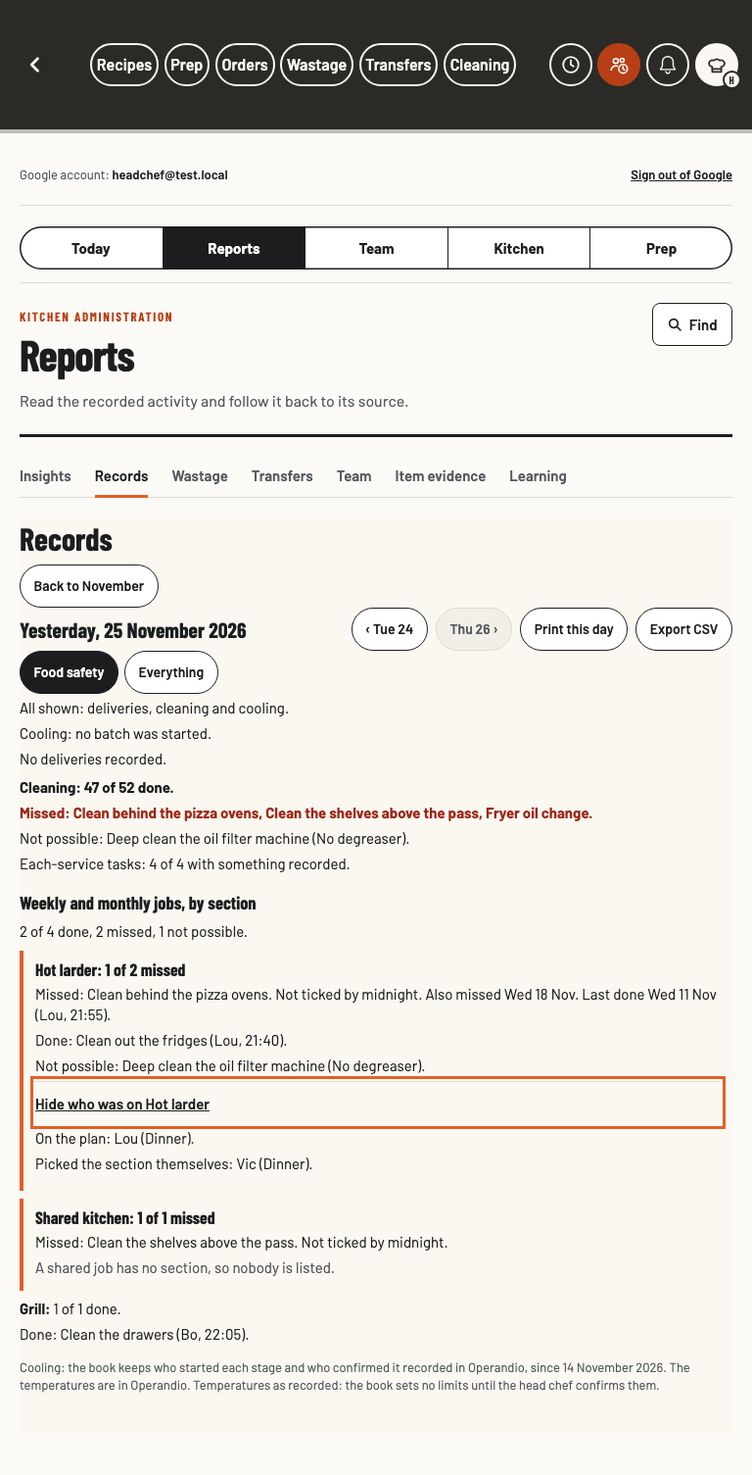
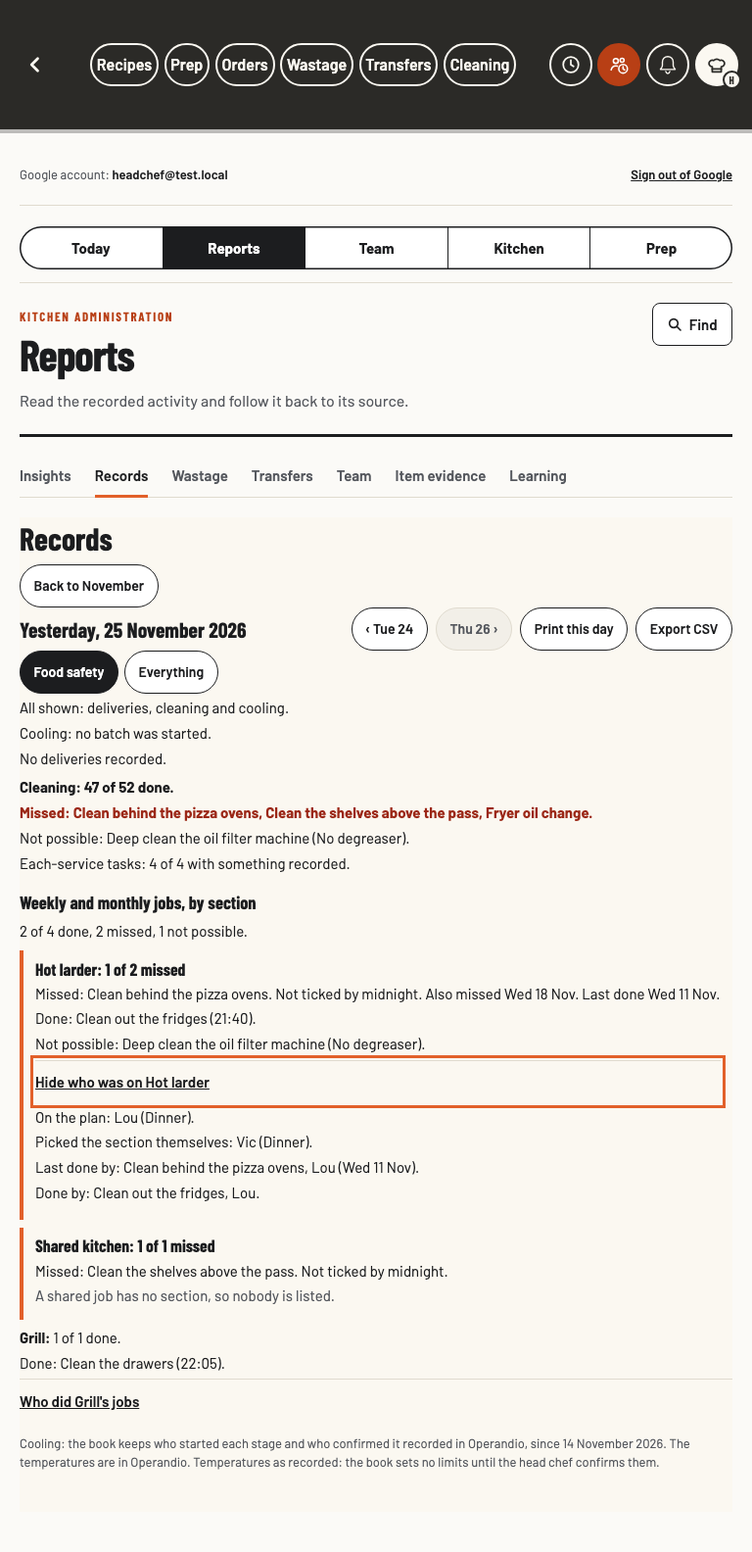
Records, cleaning by section: no person's name on the face of the page
The chosen design shows no name outside a fold. Who did a job now sits
behind the section's fold with who was on. The test words its dates the
way the page does (the tests run on today's date), and one night is built
with the nightly count's own code so the count and the page cannot drift.

diff --git a/tests/cleaning-results.test.js b/tests/cleaning-results.test.js
@@ -8,8 +8,9 @@ const L = require('./lib');
 const { R, ok } = L.results(), { txt } = L;
 const key = (...p) => ['kitchens', L.PIN, ...p].join('/');
 const DAY = 86400000, day = n => L.ymd(new Date(L.NOW - n * DAY));
-const DOW = ['Sun', 'Mon', 'Tue', 'Wed', 'Thu', 'Fri', 'Sat'], MON = ['Jan', 'Feb', 'Mar', 'Apr', 'May', 'Jun', 'Jul', 'Aug', 'Sep', 'Oct', 'Nov', 'Dec'];
-const short = d => { const t = new Date(d + 'T12:00:00Z'); return DOW[t.getUTCDay()] + ' ' + t.getUTCDate() + ' ' + MON[t.getUTCMonth()]; };
+// "Wed 18 Nov", worded in the page the way the book words it (the tests run on today's date, and the short name of a
+// month is the browser's: June, July and Sept are not three letters in Australian English)
+const shorts = (p, days) => p.evaluate(ds => { const o = {}, DOW = ['Sun', 'Mon', 'Tue', 'Wed', 'Thu', 'Fri', 'Sat']; ds.forEach(d => { const t = new Date(d + 'T12:00:00Z'); o[d] = DOW[t.getUTCDay()] + ' ' + t.getUTCDate() + ' ' + t.toLocaleDateString('en-AU', { month: 'short', timeZone: 'UTC' }); }); return o; }, days);
 const y = day(1), wk = day(8), wk2 = day(15), cutDay = day(22), ncDay = day(2), oldDay = day(3), nullDay = day(4);
 const whole = (o) => Object.assign({ cv: 2, due: 52, done: 47, miss: [], missN: 0, unable: [], unableN: 0, wait: [], waitN: 0, ev: 4, evRec: 4, r: [], rN: 0, rn: { due: 0, done: 0, miss: 0, unable: 0, wait: 0 } }, o);
 const pizza = (st, more) => Object.assign({ k: 'w1', t: 'Clean behind the pizza ovens', s: 'hot', sn: 'Hot side', st }, more || {});
@@ -42,6 +43,7 @@ const NAMES = /\b(Lou|Vic|Bo)\b/;
   const b = await L.start();
   for (const width of [390, 768, 1280]) {
     const p = await inbox(b, base(board()), width);
+    const SH = await shorts(p, [wk, wk2]), short = d => SH[d];
     const row = await p.evaluate(() => { const e = document.querySelector('.dsh-need-miss'); if (!e) return null; const btn = e.querySelector('button');
       return { tag: e.querySelector('.dsh-tag').textContent, title: e.querySelector('.dsh-need-title').textContent, detail: e.querySelector('.dsh-need-detail').textContent, btn: btn ? btn.textContent : '', cls: btn ? btn.className : '', h: btn ? Math.round(btn.getBoundingClientRect().height) : 0 }; });
     ok(!!row && row.tag === 'Missed' && row.title === '2 weekly or monthly cleaning jobs missed last night', width + ': the Inbox has one row for last night\'s missed weekly and monthly jobs (' + JSON.stringify(row && [row.tag, row.title]) + ')');
@@ -56,12 +58,13 @@ const NAMES = /\b(Lou|Vic|Bo)\b/;
     const landed = await p.evaluate(() => { const h = document.querySelector('#rec-clean-sec'), r = h && h.getBoundingClientRect(); return { tab: LK_PREP.state.atab, focus: document.activeElement && document.activeElement.id, top: r ? Math.round(r.top) : -1, vh: innerHeight, date: (document.querySelector('.rec-dt') || {}).textContent }; });
     ok(landed.tab === 'records' && /^Yesterday, /.test(landed.date || '') && landed.focus === 'rec-clean-sec' && landed.top >= 0 && landed.top < landed.vh - 100, width + ': the button opens that night in Records, with the jobs by section on screen and in focus (' + JSON.stringify(landed) + ')');
     const secs = await block(p);
-    ok(secs.length === 4 && /^Hot larder: 1 of 2 missed \| Missed: Clean behind the pizza ovens\. Not ticked by midnight\. /.test(secs[0]) && secs[0].indexOf('Also missed ' + short(wk) + '.') > 0 && secs[0].indexOf('Last done ' + short(wk2) + ' (Lou, 21:55).') > 0,
+    ok(secs.length === 4 && /^Hot larder: 1 of 2 missed \| Missed: Clean behind the pizza ovens\. Not ticked by midnight\. /.test(secs[0]) && secs[0].indexOf('Also missed ' + short(wk) + '.') > 0 && secs[0].indexOf('Last done ' + short(wk2) + '.') > 0,
       width + ': the section with a miss comes first, the miss first in it, with when the job was missed before and last done (' + secs[0] + ')');
     ok(secs[0].indexOf('Also missed ' + short(wk) + ' and') < 0, width + ': a day whose jobs were not kept one by one is not called a miss of that job');
-    ok(/\| Done: Clean out the fridges \(Lou, 21:40\)\. \| Who was on Hot larder$/.test(secs[0]), width + ': then the section\'s done job with who did it, and who was on behind a closed fold (' + secs[0] + ')');
+    ok(/\| Done: Clean out the fridges \(21:40\)\. \| Who was on Hot larder$/.test(secs[0]), width + ': then the section\'s done job with its time, and who was on behind a closed fold (' + secs[0] + ')');
+    ok(!NAMES.test(await p.evaluate(() => document.querySelector('.rec-clean').textContent)), width + ': with every fold closed, no person\'s name is on the page');
     ok(/^Shared kitchen: 1 of 1 missed \| Missed: Clean the shelves above the pass\..*A shared job has no section, so nobody is listed\.$/.test(secs[1]) && !/Who was on/.test(secs[1]), width + ': a shared job has a line and no names (' + secs[1] + ')');
-    ok(secs[2] === 'Grill: 1 of 1 done. | Done: Clean the drawers (Bo, 22:05).' && secs[3] === 'Old section: nothing due but a job that was not possible. | Not possible: Deep clean the oil filter machine (No degreaser).',
+    ok(secs[2] === 'Grill: 1 of 1 done. | Done: Clean the drawers (22:05). | Who did Grill\'s jobs' && secs[3] === 'Old section: nothing due but a job that was not possible. | Not possible: Deep clean the oil filter machine (No degreaser).',
       width + ': a section that finished says so, and a job that was not possible is apart, under the name its job was saved with when the section is gone (' + secs.slice(2).join(' // ') + ')');
     const view = await p.evaluate(() => { const v = document.querySelector('.rec-dayv'), miss = v.querySelector('.rec-miss'), fold = v.querySelector('.rec-who');
       return { red: [...v.querySelectorAll('.rec-adv')].map(e => e.textContent), failure: getComputedStyle(v.querySelector('.rec-adv')).color, edge: getComputedStyle(miss).borderLeftColor, ink: getComputedStyle(miss.querySelector('.rec-miss-h')).color,
@@ -71,8 +74,10 @@ const NAMES = /\b(Lou|Vic|Bo)\b/;
     ok(view.exp === 'false' && view.h >= 44 && view.wide, width + ': the fold is closed and 44 px tall; no sideways scroll (' + view.h + ')');
     await p.evaluate(() => document.querySelector('.rec-who').click()); await L.settle(p, 300);
     const who = await p.evaluate(() => ({ lines: [...document.querySelectorAll('.rec-who-list .rec-line')].map(e => e.textContent), exp: document.querySelector('.rec-who').getAttribute('aria-expanded'), label: document.querySelector('.rec-who').textContent, focus: document.activeElement && document.activeElement.className }));
-    ok(who.exp === 'true' && who.lines.join(' | ') === 'On the plan: Lou (Dinner). | Picked the section themselves: Vic (a shift no longer on the list).' && /rec-who/.test(who.focus || '') && who.label === 'Hide who was on Hot larder',
-      width + ': opened, it says who was on from the plan and from an own pick, each with its shift by name, never a raw id; focus stays on the fold (' + JSON.stringify(who) + ')');
+    ok(who.exp === 'true' && who.lines.join(' | ') === 'On the plan: Lou (Dinner). | Picked the section themselves: Vic (a shift no longer on the list). | Last done by: Clean behind the pizza ovens, Lou (' + short(wk2) + '). | Done by: Clean out the fridges, Lou.' && /rec-who/.test(who.focus || '') && who.label === 'Hide who was on Hot larder',
+      width + ': opened, it says who was on from the plan and from an own pick, each with its shift by name, never a raw id, then who did the jobs; focus stays on the fold (' + JSON.stringify(who) + ')');
+    await p.evaluate(() => [...document.querySelectorAll('.rec-who')].filter(x => /Grill/.test(x.textContent))[0].click()); await L.settle(p, 300);
+    ok(await p.evaluate(() => { const g = [...document.querySelectorAll('.rec-sec')].filter(s => /^Grill/.test(s.textContent))[0]; return !!g && g.querySelector('.rec-who-list').textContent === 'Done by: Clean the drawers, Bo.'; }), width + ': a section that finished keeps who did its jobs behind its own fold');
     // Everything redraws the day as its parts load: the fold stays open
     await p.evaluate(() => document.querySelector('[data-p="rec-show"][data-v="all"]').click()); await L.settle(p, 900);
     ok(await p.evaluate(() => { const f = document.querySelector('.rec-who'); return !!f && f.getAttribute('aria-expanded') === 'true' && !!document.querySelector('.rec-who-list'); }), width + ': the fold stays open when the day is drawn again');
@@ -132,6 +137,24 @@ const NAMES = /\b(Lou|Vic|Bo)\b/;
     ok(!p.errors.length, 'older Records board: no page errors ' + p.errors.join(' | '));
     await p.context().close();
   }
+  // a night built by the nightly count's own code (scripts/records-core.mjs), so the count and the page cannot drift apart
+  {
+    const Rc = await import('../scripts/records-core.mjs'), open = 253402178400000, from = Rc.at(day(20));
+    const T = (id, text, o) => Object.assign({ id, root: id, text, from, until: open, dows: [new Date(y + 'T12:00:00Z').getUTCDay()], shared: false }, o);
+    const made = Rc.cleanDay([T('j1', 'Clean behind the pizza ovens', { section: 'hot', sectionName: 'Hot larder' }), T('j2', 'Clean the shelves above the pass', { shared: true, section: '' })],
+      [{ day: y, task: 'j2', done: true, doneAt: Rc.at(y, 21 * 60 + 40), doneBy: 'Sam', worker: 'Bo' }], y,
+      { names: { lou: 'Lou' }, from: { plans: day(56), picks: day(30) }, plans: [{ day: y, on: [{ id: 'lou', sh: 'dinner', sec: 'hot' }] }], picks: [] });
+    const p = await inbox(b, base(board({ days: rows({ [y]: made }) })), 1280), list = await needs(p);
+    ok(list.some(x => /^MissedHot larder: 1 weekly or monthly job missed last night/.test(x)), 'a night counted by the nightly job\'s own code gives the Inbox row (' + list.filter(x => /issed/.test(x)).join(' // ') + ')');
+    await p.evaluate(() => document.querySelector('.dsh-need-miss button').click()); await L.waitFor(p, () => !!document.querySelector('#rec-clean-sec'), null, 8000).catch(() => {}); await L.settle(p, 300);
+    const made2 = await block(p);
+    await p.evaluate(() => document.querySelector('.rec-who').click()); await L.settle(p, 300);
+    const on = await p.$$eval('.rec-who-list .rec-line', els => els.map(e => e.textContent).join(' | '));
+    ok(/^Hot larder: 1 of 1 missed \| Missed: Clean behind the pizza ovens\./.test(made2[0]) && /^Shared kitchen: 1 of 1 done\. \| Done: Clean the shelves above the pass \(21:40\)\. \| Who did the shared jobs$/.test(made2[1]) && on === 'On the plan: Lou (Dinner). | Nobody picked the section themselves.',
+      'and the Records night, from the same row (' + made2.join(' // ') + ' // ' + on + ')');
+    ok(!p.errors.length, 'a night from the count\'s own code: no page errors ' + p.errors.join(' | '));
+    await p.context().close();
+  }
   // a section with a miss but no kept record of who was on; and a day that kept only some of its jobs
   {
     const noRo = whole({ r: [{ k: 'w3', t: 'Clean the drawers', s: 'grill', sn: 'Grill', st: 'm' }], rN: 1, rn: { due: 1, done: 0, miss: 1, unable: 0, wait: 0 }, missN: 1, miss: ['Clean the drawers'] });
@@ -140,7 +163,8 @@ const NAMES = /\b(Lou|Vic|Bo)\b/;
     await L.adminTab(p, 'records'); await L.waitFor(p, () => !!document.querySelector('.rec-days'), null, 8000).catch(() => {});
     await p.evaluate(dd => document.querySelector('.rec-dayrow[data-d="' + dd + '"]').click(), y); await L.settle(p, 300);
     await p.evaluate(() => document.querySelector('.rec-who').click()); await L.settle(p, 300);
-    ok((await p.$$eval('.rec-who-list .rec-line', els => els.map(e => e.textContent))).join('|') === 'Who was on was not kept for this section.', 'a section with no record of who was on says so, and not that the plan is too old');
+    const unkept = await p.$$eval('.rec-who-list .rec-line', els => els.map(e => e.textContent));
+    ok(unkept[0] === 'Who was on was not kept for this section.' && !unkept.some(l => /8 weeks/.test(l)), 'a section with no record of who was on says so, and not that the plan is too old (' + unkept.join(' | ') + ')');
     await p.evaluate(dd => { document.querySelector('[data-p="rec-back"]').click(); document.querySelector('.rec-dayrow[data-d="' + dd + '"]').click(); }, day(2)); await L.settle(p, 300);
     const part = await block(p), top = await p.evaluate(() => document.querySelector('#rec-clean-sec').nextElementSibling.textContent);
     ok(/3 more jobs are counted but not listed, so each section below shows only the jobs listed\./.test(top) && /^Hot larder: at least 1 missed /.test(part[0]) && /^Grill: the jobs listed\. /.test(part[1]), 'a day that kept only some of its jobs never reads as whole sections (' + part.join(' // ') + ')');

diff --git a/js/prep.js b/js/prep.js
@@ -7630,8 +7630,8 @@
   /* Results by section, step 2 (head chef, 26 Nov 2026, docs/cleaning-tracking-options/brief.md). The nightly count
      keeps each weekly or monthly job one by one (r, by its root id) and, for a section with a missed job, who was on
      that day (ro). Records shows them under the day's own cleaning lines: a section with a miss first, in the
-     attention look, with who was on behind a fold; then the sections that finished. A missed job is the section's:
-     no person has a count. Reads nothing: it is all on the board Records already holds. Admin only, like the board. */
+     attention look; then the sections that finished. A missed job is the section's: no person has a count, and no
+     person's name is on the face of the page. Who was on, and who did a job, sit behind each section's fold. Reads nothing: it is all on the board Records already holds. Admin only, like the board. */
   function recSecName(id, saved) {
     if (!id) return 'Shared kitchen';
     // by id over the whole saved list: kitSecs() leaves out a section that is switched off, and a past night may name one
@@ -7683,24 +7683,39 @@
     var short = function (d) { return recShort(d) + ' ' + parseYmd(d).toLocaleDateString('en-AU', { month: 'short' }); }, before = recBefore(day);
     // the count keeps at most 40 jobs a day: past that, a section's lines are only the jobs listed, and say so
     var part = c.rN > list.length;
+    // the face of the page: the job, its state, its times and dates. Never a person's name (those are behind the fold)
     var jobLine = function (x) {
-      if (x.st === 'd') return 'Done: ' + x.t + (x.by ? ' (' + x.by + (x.at ? ', ' + x.at : '') + ')' : '') + '.';
+      if (x.st === 'd') return 'Done: ' + x.t + (x.at ? ' (' + x.at + ')' : '') + '.';
       if (x.st === 'u') return 'Not possible: ' + x.t + (x.n ? ' (' + x.n + ')' : '') + '.';
       if (x.st === 'w') return 'Awaiting Pass check: ' + x.t + '.';
       var b = before[x.k] || { missed: [], done: null };
       return 'Missed: ' + x.t + '. Not ticked by midnight.' + (b.missed.length ? ' Also missed ' + b.missed.map(short).join(' and ') + '.' : '') +
-        (b.done ? ' Last done ' + short(b.done.day) + (b.done.by ? ' (' + b.done.by + (b.done.at ? ', ' + b.done.at : '') + ')' : '') + '.' : '');
+        (b.done ? ' Last done ' + short(b.done.day) + '.' : '');
+    };
+    // behind the fold: who did each done job that day, and who last did a job that was missed
+    var doers = function (jobs) {
+      var out = [];
+      jobs.forEach(function (x) {
+        if (x.st === 'd' && x.by) out.push('Done by: ' + x.t + ', ' + x.by + '.');
+        var b = x.st === 'm' ? before[x.k] : null;
+        if (b && b.done && b.done.by) out.push('Last done by: ' + x.t + ', ' + b.done.by + ' (' + short(b.done.day) + ').');
+      });
+      return out;
+    };
+    var foldHTML = function (s, label, lines) {
+      var open = !!REC.who[day + '|' + s];
+      return '<button type="button" class="tm-fold rec-who" data-p="rec-who" data-s="' + esc(s) + '" aria-expanded="' + open + '">' + esc((open ? 'Hide ' : '') + (open ? label.charAt(0).toLowerCase() + label.slice(1) : label)) + '</button>' +
+        (open ? '<div class="rec-who-list">' + lines.map(function (l) { return '<p class="rec-line">' + esc(l) + '</p>'; }).join('') + '</div>' : '');
     };
     var ro = Array.isArray(c.ro) ? c.ro : [];
     var out = secs.map(function (s) {
       var name = recSecName(s, (by[s][0] || {}).sn), jobs = by[s], m = missed(s), due = jobs.filter(function (x) { return x.st !== 'u'; }).length;
       var lines = jobs.slice().sort(function (a, b) { return (a.st === 'm' ? 0 : 1) - (b.st === 'm' ? 0 : 1); }).map(function (x) { return '<p class="rec-line">' + esc(jobLine(x)) + '</p>'; }).join('');
-      if (!m) return '<div class="rec-sec"><p class="rec-line"><b>' + esc(name) + ':</b> ' + esc(part ? 'the jobs listed.' : due ? jobs.filter(function (x) { return x.st === 'd'; }).length + ' of ' + due + ' done.' : 'nothing due but a job that was not possible.') + '</p>' + lines + '</div>';
-      var key = day + '|' + s, open = !!REC.who[key], o = ro.filter(function (x) { return x && x.s === s; })[0];
+      var did = doers(jobs), didFold = did.length ? foldHTML(s, s ? 'Who did ' + name + '\'s jobs' : 'Who did the shared jobs', did) : '';
+      if (!m) return '<div class="rec-sec"><p class="rec-line"><b>' + esc(name) + ':</b> ' + esc(part ? 'the jobs listed.' : due ? jobs.filter(function (x) { return x.st === 'd'; }).length + ' of ' + due + ' done.' : 'nothing due but a job that was not possible.') + '</p>' + lines + didFold + '</div>';
+      var o = ro.filter(function (x) { return x && x.s === s; })[0];
       return '<div class="rec-sec rec-miss"><p class="rec-miss-h">' + esc(name) + ': ' + (part ? 'at least ' + m + ' missed' : m + ' of ' + due + ' missed') + '</p>' + lines +
-        (s ? '<button type="button" class="tm-fold rec-who" data-p="rec-who" data-s="' + esc(s) + '" aria-expanded="' + open + '">' + (open ? 'Hide who was on ' : 'Who was on ') + esc(name) + '</button>' +
-          (open ? '<div class="rec-who-list">' + recWhoWords(o, name).map(function (l) { return '<p class="rec-line">' + esc(l) + '</p>'; }).join('') + '</div>' : '')
-          : '<p class="rec-line hint">A shared job has no section, so nobody is listed.</p>') + '</div>';
+        (s ? foldHTML(s, 'Who was on ' + name, recWhoWords(o, name).concat(did)) : '<p class="rec-line hint">A shared job has no section, so nobody is listed.</p>' + didFold) + '</div>';
     }).join('');
     return head + '<p class="rec-line">' + esc(whole) + (part ? ' ' + (c.rN - list.length) + ' more jobs are counted but not listed, so each section below shows only the jobs listed.' : '') + '</p>' + out;
   }

diff --git a/README.md b/README.md
@@ -229,7 +229,7 @@ This guide is bundled with the book, searchable and readable without extra Fires
 - **The audit's fixes (14 Nov 2026).** An order request already open today is not added again (Add anyway on the slip). Every suggestion is counted, with changes after the guess, in the admin's Smart features. Reports, Transfers keeps loans older than its days, and the Insights and wastage CSVs have On it and amount changes. Records keeps each day's Operandio cooling batch (who started and confirmed each stage, from the nightly job). [Brief](docs/smart-book-options/brief.md).
 - **Print cards (19 Nov 2026, head chef choice after the council).** The head chef, sous chefs and admin print paper recipe cards: Print cards in Manage Recipes (tick cards, or add Specials, a menu section, Batch recipes or Every card) and Print this card beside Change this recipe on a recipe. Paper A4 upright, A4 sideways or A5 sideways, kept on the device. Paper and group choices keep keyboard focus. Each card starts on a new page; a card just over a page takes slightly smaller type before it splits, a list never breaks through a row or a step, and every page repeats the card number, name, page x of y, the allergens in a box and the print time with "Check the book for the latest". Amounts as written (x1); unconfirmed ones say [To come]. A tap on Print or a card says so at once; the cards are laid out after it, one card at a time (24 Nov 2026). No reads or writes; `js/recipe-print.js` and `css/recipe-print.css` load only when a chef opens it. [Brief, council and build](docs/print-cards-options/brief.md).
 - **Filled for you and Records (13 Nov 2026, head chef choice after the smarter-book audit).** On Wastage and Transfers an item typed in full fills what describes it from its last 2 weeks (Wastage: section, reason, unit; Transfers: unit), never the amount, with a LAST TIME tag, one line saying what was filled and Empty these boxes; Log it says what it saves. Orders names its usual amount fill under the box. Reports, Records lists each finished day's deliveries and cleaning (missed, not possible, awaiting Pass check) from the nightly count, opens a day in time order (Food safety, or Everything), and prints a month or a day: 1 read to open. The month name sits with the month buttons, and Print this month and Export CSV remain directly available. [Brief, council and build](docs/smart-book-options/brief.md).
-- **Missed cleaning in the Inbox and in Records, by section (26 Nov 2026, head chef, results by section, step 2 of 4).** When a weekly or monthly cleaning job was missed last night, the admin's Inbox has one row for the night: Missed, the sections and their jobs, and the date. It names no person. Open that night goes to Reports, Records on that day, at Weekly and monthly jobs, by section: the section with a miss first, when that job was missed before and last done, the section's other jobs with who did them, and who was on that section behind a fold, from the plan and from each cook's own pick. The Inbox says nothing while Cleaning is not switched on, and "Not counted yet" before the nightly run. No new read. [Contract](docs/cleaning-schedule.md#what-the-admin-sees-of-it), [brief](docs/cleaning-tracking-options/brief.md).
+- **Missed cleaning in the Inbox and in Records, by section (26 Nov 2026, head chef, results by section, step 2 of 4).** When a weekly or monthly cleaning job was missed last night, the admin's Inbox has one row for the night: Missed, the sections and their jobs, and the date. It names no person. Open that night goes to Reports, Records on that day, at Weekly and monthly jobs, by section: the section with a miss first, when that job was missed before and last done, and the section's other jobs. No person's name is on the page until you open a section's fold: there, who was on that section, from the plan and from each cook's own pick, and who did its jobs. The Inbox says nothing while Cleaning is not switched on, and "Not counted yet" before the nightly run. No new read. [Contract](docs/cleaning-schedule.md#what-the-admin-sees-of-it), [brief](docs/cleaning-tracking-options/brief.md).
 - **The cleaning count starts when Cleaning is switched on (26 Nov 2026, head chef, results by section, step 1 of 4).** The nightly count now covers a day only from the day it first finds Cleaning switched on for the team. Every earlier day reads "Cleaning: not counted" in Records, so cleaning jobs loaded before switch-on never show as missed. The day Cleaning is switched on is not counted; the next one is. For each weekly or monthly job the count also keeps its section, whether it was done and who did it, and for a section with a missed job who was on that day, from the plan and from each cook's own pick. The Inbox row and the Records night above read them. [Contract](docs/cleaning-schedule.md#what-the-nightly-count-keeps), [brief](docs/cleaning-tracking-options/brief.md).
 - **Complete Records and Transfers exports (23 Nov 2026).** Records keeps the selected day while you retry a read. In Everything, Print this day and Export CSV become available once the nightly count and all sections load. Food safety still uses the nightly record. Transfers flags missing dates and enables Download CSV once the selected dates and earlier outstanding transfers load. Refresh keeps the period and venue. An open Export menu stays open when a late read redraws the page (24 Nov 2026). [Report exports](docs/report-exports.md)
 - **A person's shifts on their page (14 Nov 2026).** Admin, Team, People, Open page now also says where the person was rostered or picked: "Shifts by section: Larder 22, Grill 8.", counted like Who has worked where, beside what they ticked. Counts are activity, never a verdict.

diff --git a/docs/design-patterns.md b/docs/design-patterns.md
@@ -176,7 +176,7 @@ Use `.ps-viewbar` for the local Work / Before service choice, `.ps-standard` for
 - **A table** sits in `.a-tablewrap` (a region that scrolls sideways and fades at its edge) as `.a-table.a-plain`. A colour scale (the skills matrix, shifts on each section) uses cells `.sk-c` with an `.a-legend` key, and counts, never a verdict.
 - **The Inbox** (redesign step 8, 8 Nov 2026) is Today's first page (`.dsh-inbox`): today's numbers as tiles (`.dsh-dtile`, each a tap into its report, a record not read says so in words, never 0), then what needs the head chef. A new thing that needs the head chef is a row there, not a new page.
 - **Admin Today** (head chef, 10 Nov 2026, [brief](admin-dashboard-restyle-options/brief.md)): the Inbox and the Dashboard are titled by their own names under Today. The Inbox puts what needs you first, each row with its state word and a button to where it is done (no picked-row pane), then today's numbers as one line each. The Dashboard keeps its period chips on top, headlines tagged with their period, the week ahead with only the days that have something on, one comparison table (`.dsh-cmp`, measure names open their reports, change in words by `delta()`), the watch list, then the charts behind one button (`.dsh-charts-btn`, open or shut kept in memory). Blocks keep their heading band without a frame. Today's team not set is attention (`.dsh-tag-att`), not failure. In the Inbox the compact priority rows use the original right-aligned actions, then the existing urgent-first mail list. The priority rows come first in reading and visual order. [Priority rows first](admin-dashboard-restyle-options/brief.md#priority-rows-first-22-november-2026).
-- **A missed-cleaning row and the night it opens** (head chef, 26 Nov 2026, [brief](cleaning-tracking-options/brief.md), results by section, step 2). In the Inbox, last night's missed weekly and monthly cleaning jobs are one attention row (`.dsh-need-miss`): the tag Missed, the sections and jobs, the date, and a quiet button (a plain `.btn`, not the filled one: nothing can be done about a finished night but read it). It names no person. The button opens that night in Records at **Weekly and monthly jobs, by section** (`.rec-sec-h`, focused): a section with a miss first as an attention block (`.rec-miss`, an accent edge on quiet paper, the count in `.rec-miss-h`), the miss first in it, then the section's other jobs; who was on sits behind the page's fold (`.tm-fold.rec-who`, its open state kept through redraws). A missed job is attention, never failure red; Records' own "Missed:" line above it is unchanged. Both say only what the nightly count knows: nothing while Cleaning is not switched on, "Not counted yet", and a number with no sections when the jobs were not kept one by one.
+- **A missed-cleaning row and the night it opens** (head chef, 26 Nov 2026, [brief](cleaning-tracking-options/brief.md), results by section, step 2). In the Inbox, last night's missed weekly and monthly cleaning jobs are one attention row (`.dsh-need-miss`): the tag Missed, the sections and jobs, the date, and a quiet button (a plain `.btn`, not the filled one: nothing can be done about a finished night but read it). It names no person. The button opens that night in Records at **Weekly and monthly jobs, by section** (`.rec-sec-h`, focused): a section with a miss first as an attention block (`.rec-miss`, an accent edge on quiet paper, the count in `.rec-miss-h`), the miss first in it, then the section's other jobs with their times; every person's name (who was on, who did a job) sits behind the section's fold (`.tm-fold.rec-who`, its open state kept through redraws). A missed job is attention, never failure red; Records' own "Missed:" line above it is unchanged. Both say only what the nightly count knows: nothing while Cleaning is not switched on, "Not counted yet", and a number with no sections when the jobs were not kept one by one.
 - **A cross-training hint** (head chef, 10 Nov 2026, [brief](cross-training-options/brief.md)): `.tm-learn`, plain muted words under a person's planner row, only where a pairing is possible in this plan, at most two a service.
 - **Find** (`.a-find`, the `/` key on a laptop) opens a sheet (`.fd-sheet`) with a type-to-find box over every page, the open page's parts (the On this page headings) and the people. It reads nothing. A new admin page is found by its tab name, a new block by its heading.
 - **At a glance** (head chef, 12 Nov 2026, Look 1, [brief](team-glance-options/brief.md)): a report page's findings first, as cards in the Dashboard's headline form (`.dsh-head-list`, `.dsh-head`, `.dsh-tag`, `.dsh-more`), in a `.tm-glance` list under an `h3.a-ch-h` named At a glance, with one status line saying when the counts run to or that they are old. Each card's link jumps to its detail on the same page (`data-p="jump"`). Used on Reports, Team; no reads of its own.

diff --git a/docs/cleaning-schedule.md b/docs/cleaning-schedule.md
@@ -71,10 +71,10 @@ Results by section, step 2 of 4 (head chef, 26 November 2026, [brief](cleaning-t
 
 - **The Inbox** has one row for last night when a weekly or monthly job was missed (`cleanNeed()` in `js/admin-dashboard.js`): the tag Missed, the sections by their name now and their jobs, the date, "(also missed Wed 18 Nov)" when the same job was missed on an earlier counted night, and a quiet button, Open that night. It names no person: the dashboard file does not even copy who did a job or who was on (`cleanCount()`).
 - **It says only what the count knows.** Nothing while Cleaning is not switched on, for a day the count does not cover, or for an older count. "Not counted yet" when the nightly run has not reached last night. A number with no sections when the jobs were not kept one by one. When nothing was missed, the all clear line adds last night's weekly and monthly cleaning.
-- **Records, that night.** Under the day's own cleaning lines, which are unchanged, comes **Weekly and monthly jobs, by section** (`recCleanSecs()` in `js/prep.js`). A section with a miss is first, as an attention block; in it the miss first, "Not ticked by midnight", with when that job was missed before and when it was last done. Then the section's other jobs: done with who did it and when, not possible with its note, awaiting Pass check. Sections that finished follow as plain lines. Shared kitchen has a line and no names.
-- **Who was on** sits behind a fold on the section's block, closed until asked for, and stays open when the day is drawn again. It says who was on the plan and who picked the section themselves, each with the shift's name, or that nobody was, or that the plan or the picks were not kept for that day. A shift or section no longer on the list is said in words, never as an id.
+- **Records, that night.** Under the day's own cleaning lines, which are unchanged, comes **Weekly and monthly jobs, by section** (`recCleanSecs()` in `js/prep.js`). A section with a miss is first, as an attention block; in it the miss first, "Not ticked by midnight", with when that job was missed before and when it was last done. Then the section's other jobs: done with its time, not possible with its note, awaiting Pass check. Sections that finished follow as plain lines. Shared kitchen has a line. No person's name is on the face of the page.
+- **Names are behind a fold**, closed until asked for, and it stays open when the day is drawn again. On a section with a miss it is "Who was on Hot larder": who was on the plan and who picked the section themselves, each with the shift's name, or that nobody was, or that the plan or the picks were not kept for that day; then who did the section's jobs and who last did the missed one. On a section that finished it is "Who did Grill's jobs". A shift or section no longer on the list is said in words, never as an id.
 - **The way in.** The Inbox button opens Records on that night and lands on the block's heading (`api.openRecords`, `recJump()`). A dashboard file newer than the saved shell finds no such method and draws no button.
-- **Names stay on screen.** Print this day, Print this month and Export CSV are unchanged and carry none of this (`tests/cleaning-results.test.js`).
+- **Names stay on screen.** Print and Export CSV are unchanged: they are built from Records' own cleaning lines (`recCleanLines()`), which hold no names. Print this day is checked for it in `tests/cleaning-results.test.js`.
 - **Not done here:** the Sunday grill and OZ tank deep clean is saved as a shared job, so it shows under Shared kitchen.
 
 ## Ordered pack down

diff --git a/docs/cleaning-tracking-options/brief.md b/docs/cleaning-tracking-options/brief.md
@@ -379,6 +379,7 @@ Implemented app on the click-test stand-in, synthetic data, 390 x 844, 768 x 900
 | Records night, screens long at 390 | 1.8 | 1.9 |
 | Where the miss is when opened from the Inbox, at 390 | Below the first screen, under today's red "Missed" line | The page lands on the heading, 149 px from the top, with the missed section's block whole on screen and the heading in focus |
 | Who was on | "Who was rostered", a link | "Who was on Hot larder", the page's fold, 44 px tall, closed until asked for. Not "rostered": it lists the plan and each cook's own pick, with the source said |
-| Earlier misses | One line, "also not ticked 18 November" | "Also missed Wed 18 Nov" by the job's own key, and "Last done Wed 11 Nov (Lou, 21:55)". A day whose jobs were not kept one by one is never called a miss |
+| People's names | None on the face of the page | None on the face of the page. Who did a job sits behind the section's fold too ("Who did Grill's jobs" on a section that finished). A first build printed them beside each done job; that was a departure from the chosen picture and was changed before it went ready |
+| Earlier misses | One line, "also not ticked 18 November" | "Also missed Wed 18 Nov" by the job's own key, and "Last done Wed 11 Nov". A day whose jobs were not kept one by one is never called a miss |
 
 Differences that were not in a preview: a night not counted yet is its own row ("Not counted yet"); a section or shift no longer on the list is said in words; a job that was not possible sits in its section with its note. Still as before: Records' own red "Missed:" line above the block (a colour clash noted in `docs/open-work.md`), and Print and CSV, which carry none of the new lines.
